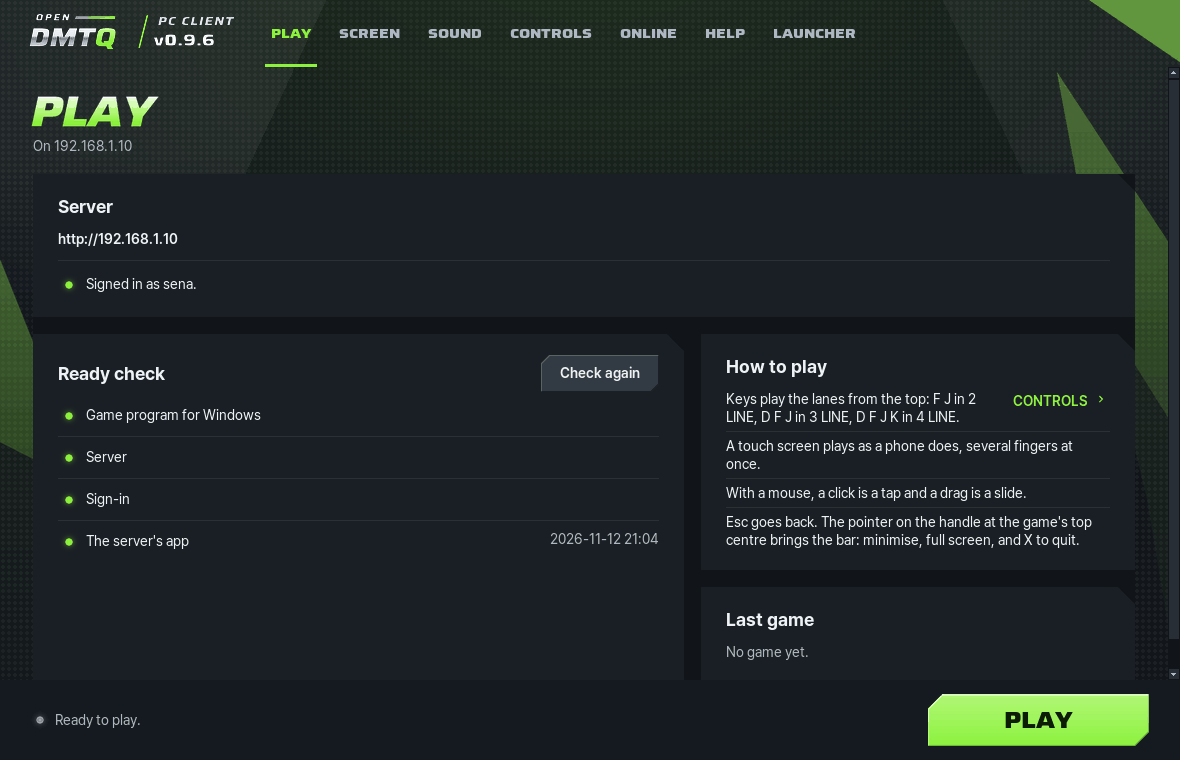
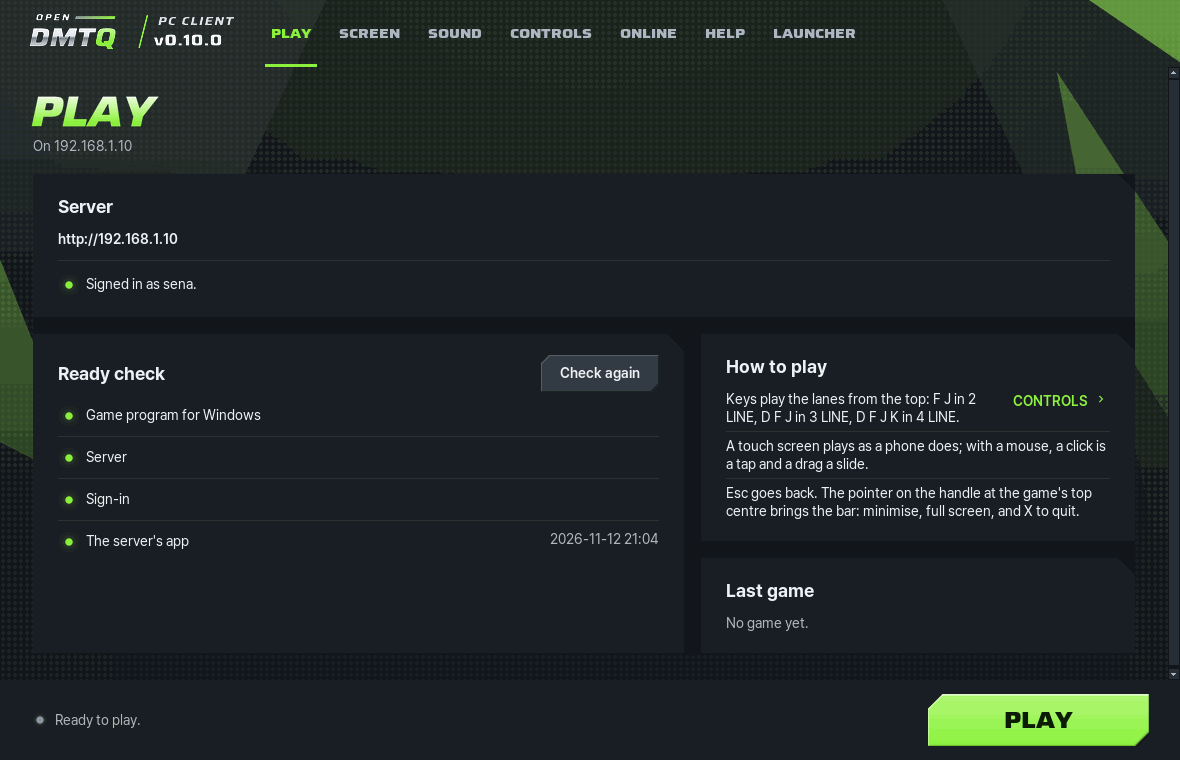
Release 0.10.0

diff --git a/CHANGELOG.md b/CHANGELOG.md
@@ -6,6 +6,64 @@ one of fixes, changes and smaller additions raises the patch number. Each releas
 
 ## [Unreleased]
 
+## [0.10.0] - 2026-11-13
+
+### Added
+
+- Keyboard play in the PC client. While a song is played, each lane is a key, F J in 2 LINE, D F J in 3 LINE and
+  D F J K in 4 LINE from the top, read by the key's place on the keyboard, so that any layout plays the same places; a
+  lane can have two keys, to alternate on quick notes. Each press lands where the game judges the lane's next note, and
+  the game judges it as it judges a finger: taps and chain points a press each, holds and drags held (the press follows
+  a drag's curve), repeat notes a press for each point. The keys play only during a song, never while the game asks for
+  text, and let go when the window loses the keyboard or is minimised, the song pauses or the question before quitting
+  comes. A player that does not find the game's input where it expects it leaves keyboard play off and says why in its
+  log.
+- The launcher sets keyboard play on its Controls page: on or off, and the keys of each lane of 2, 3 and 4 LINE from
+  the top, with a second key for a lane if wanted. A key goes in by its place on the keyboard, named as the US layout's
+  key there, with what the PC's own layout prints there beside it; a key another lane of the same LINE plays, or one no
+  lane takes, is refused in words, and Reset keys puts the defaults back. `--set keyboard=` and `--set keys_2line=` to
+  `keys_4line=` do the same from the command line, and `--status` lists them.
+- A score played with the keyboard is marked. The player's save says so (`X-OpenDMTQ-Keys: 1`); the game server marks
+  the play and the best score it sets (a new best by touch clears the mark); the site shows a small keyboard before
+  such scores (a song's leaderboard, a player's plays and best records, the home page's newest records) and, with how
+  many, beside the totals on the rankings and the home page. The API says `keys` on every play and best it lists and
+  `keys_charts` beside every total; the admin pages' Status and Plays mark such scores, and the plays file has a keys
+  column. The rankings stay one for touch and keys, and the game's own replies do not change.
+- The PC client's guide says how it runs on Linux under Wine, as the tests run it for every release.
+- Checks: `PLAYER_KEYS` takes keys by their place on the keyboard, at a song's own time and from a file;
+  `PLAYER_TRACE_KEYS=1` logs keyboard play's presses and the game's judgment of a song's notes by type.
+
+### Changed
+
+- The launcher's first start: each step's title is its question ("Which server?", "Who plays?"), in Korean too, and
+  while Next waits, a line at the foot of the step says what for. The last step shows how to play, with the keys.
+- The launcher's PLAY page: How to play starts with keyboard play's keys, or that it is off, with a link to Controls;
+  a ready-check row's link is named after the page it opens, and what will change is a ring; the ready check is as tall
+  as its column again.
+- The launcher's words: in Korean a log is 로그 and play records stay 기록; outcomes are sentences; the game is open in
+  every message; the window an error ends in opens the log's folder; the dialogs over Repair and Delete all say what
+  comes of the work. The logo, the Launcher page and the command line show one version, the installed one.
+- The player for Windows: the bar waits while a lane key is down, as it does for a finger on the game.
+- The host install: `./opendmtq status` says the phone app waits for the game files before they are in, where it said
+  the app's build had failed.
+- The guides: the README opens with the players' site, then a quick start for playing and one for hosting, the
+  system's figure and the guides by reader, shorter; players have a guide of their own (a phone, a PC), and the install
+  guide, troubleshooting and the questions and answers have a part for players and one for server owners.
+- The player for Windows: the bar's X stands as far in from the bar's right end as the wordmark from its left, so that
+  the bar's two ends match.
+- The PC client's guide: its pictures of the game again, from a song played with the keyboard on Windows (4 LINE HARD,
+  ALL COMBO, 99.1 %), with the bar's new ends.
+
+### Fixed
+
+- The player for Windows: the FPS counter keeps to the game's own buttons in every shape of window. At 21:9 the
+  counter at the top left lay on a song's pause button; at 16:10 and 4:3 the counter at the bottom right was drawn
+  larger than the game's buttons beside it and covered more of the result's SELECT MUSIC (at 4:3, 49 % of it, now 29 %).
+- The launcher's window could open partly under the taskbar on a laptop at 150 % (1920x1080) or at 1366x768, with the
+  strip that holds PLAY under it: it opens inside the work area, its title bar counted.
+- `--set` with several items kept the ones before a refused one: every item is checked before any is applied.
+- The PC client's guide said Esc pauses a song: in a song it does nothing, and the game's pause button pauses.
+
 ## [0.9.6] - 2026-11-13
 
 ### Changed
@@ -715,7 +773,8 @@ one of fixes, changes and smaller additions raises the patch number. Each releas
 - Four ways to run it: the Windows bundle, one command on Linux or macOS, Docker Compose, and a Helm chart for
   Kubernetes.
 
-[Unreleased]: https://github.com/kanggu12/openDMTQ/compare/v0.9.6...HEAD
+[Unreleased]: https://github.com/kanggu12/openDMTQ/compare/v0.10.0...HEAD
+[0.10.0]: https://github.com/kanggu12/openDMTQ/compare/v0.9.6...v0.10.0
 [0.9.6]: https://github.com/kanggu12/openDMTQ/compare/v0.9.5...v0.9.6
 [0.9.5]: https://github.com/kanggu12/openDMTQ/compare/v0.9.4...v0.9.5
 [0.9.4]: https://github.com/kanggu12/openDMTQ/compare/v0.9.3...v0.9.4
